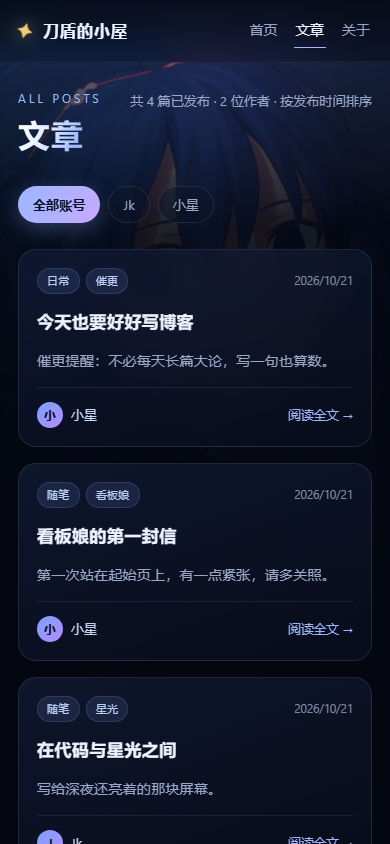
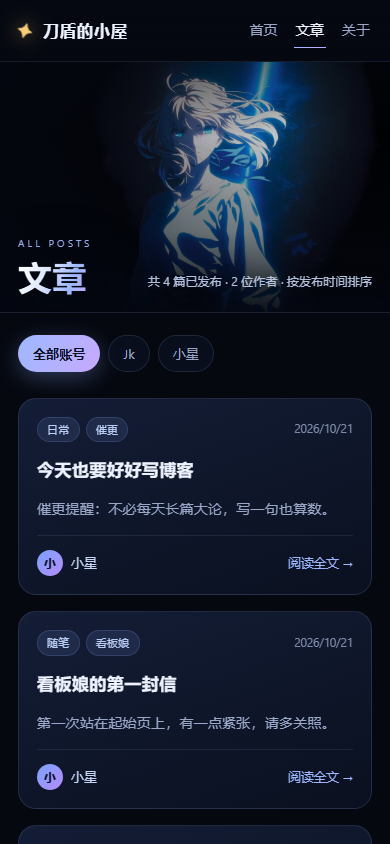
feat: 文章页顶部换成专属横图，图下文章区改为不透明
- 新增 web/assets/articles-hero.jpg（1280 × 720），只在第二页 /articles 使用，文章页不再铺首页背景
- /articles 顶部改为图片横幅，标题与「共 N 篇已发布」叠在底部渐变上；图下方文章列表整块不透明，卡片改为实色
- 同步 README 素材表、docs/background-spec.md 图片规格与验收截图

diff --git a/web/articles.html b/web/articles.html
@@ -12,16 +12,8 @@
     <link rel="icon" href="/assets/favicon.svg" type="image/svg+xml" />
     <link rel="stylesheet" href="/css/style.css" />
   </head>
-  <body>
+  <body class="page-articles">
     <a class="skip-link" href="#post-list">跳到文章列表</a>
-
-    <div class="scene" aria-hidden="true">
-      <div class="scene-bg"></div>
-      <div class="scene-stars"></div>
-      <div class="scene-glow scene-glow--a"></div>
-      <div class="scene-glow scene-glow--b"></div>
-      <div class="scene-veil"></div>
-    </div>
 
     <header class="topbar">
       <a class="brand" href="/" aria-label="回到首页">
@@ -36,29 +28,44 @@
       <span class="topbar-badge">SQLite · 账号分库</span>
     </header>
 
-    <div class="content-stage content-stage--page">
-      <main class="library-main">
-        <div class="page-head">
-          <div>
-            <p class="section-kicker">All posts</p>
-            <h1 class="page-title">文章</h1>
+    <main class="articles-page">
+      <section class="articles-hero" aria-labelledby="page-title">
+        <img
+          class="articles-hero-img"
+          src="/assets/articles-hero.jpg"
+          alt=""
+          width="1280"
+          height="720"
+          decoding="async"
+          fetchpriority="high"
+        />
+        <div class="articles-hero-inner">
+          <div class="page-head">
+            <div>
+              <p class="section-kicker">All posts</p>
+              <h1 class="page-title" id="page-title">文章</h1>
+            </div>
+            <p class="page-note" id="page-note">正在读取文章库…</p>
           </div>
-          <p class="page-note" id="page-note">正在读取文章库…</p>
         </div>
+      </section>
 
-        <div class="filter-bar" id="filter-bar" role="group" aria-label="按账号筛选文章">
-          <button class="filter-chip is-active" type="button" data-account="">全部账号</button>
-        </div>
+      <section class="articles-library" aria-label="文章列表">
+        <div class="library-main library-main--opaque">
+          <div class="filter-bar" id="filter-bar" role="group" aria-label="按账号筛选文章">
+            <button class="filter-chip is-active" type="button" data-account="">全部账号</button>
+          </div>
 
-        <div class="feed library-feed" id="post-list">
-          <p class="feed-state">正在读取文章库…</p>
-        </div>
+          <div class="feed library-feed" id="post-list">
+            <p class="feed-state">正在读取文章库…</p>
+          </div>
 
-        <div class="library-more" id="library-more" hidden>
-          <button class="btn btn-ghost" type="button" id="load-more">加载更多</button>
+          <div class="library-more" id="library-more" hidden>
+            <button class="btn btn-ghost" type="button" id="load-more">加载更多</button>
+          </div>
         </div>
-      </main>
-    </div>
+      </section>
+    </main>
 
     <footer class="footer">
       <p data-site="footer">© 2026 Jk · 用 SQLite 写下每一个字</p>

diff --git a/web/css/style.css b/web/css/style.css
@@ -995,6 +995,80 @@ img {
     );
 }
 
+/* 第二页顶部横图：文章页用自己的一张图，不再铺首页背景 */
+
+.articles-page {
+  background: #05080f;
+}
+
+.articles-hero {
+  position: relative;
+  isolation: isolate;
+  overflow: hidden;
+  height: clamp(300px, 46vh, 460px);
+  background: #04070e;
+}
+
+.articles-hero-img {
+  position: absolute;
+  inset: 0;
+  z-index: -2;
+  width: 100%;
+  height: 100%;
+  object-fit: cover;
+  object-position: center 10%;
+}
+
+.articles-hero::after {
+  content: "";
+  position: absolute;
+  inset: 0;
+  z-index: -1;
+  background:
+    linear-gradient(
+      180deg,
+      rgba(4, 7, 16, 0.55) 0%,
+      rgba(4, 7, 16, 0.18) 30%,
+      rgba(4, 7, 16, 0.48) 68%,
+      rgba(4, 7, 16, 0.96) 100%
+    ),
+    linear-gradient(90deg, rgba(4, 7, 16, 0.8) 0%, rgba(4, 7, 16, 0.24) 48%, rgba(4, 7, 16, 0) 74%);
+}
+
+.articles-hero-inner {
+  position: absolute;
+  right: 0;
+  bottom: 0;
+  left: 0;
+}
+
+.articles-hero .page-head {
+  width: min(1200px, 100%);
+  margin: 0 auto;
+  padding: 0 clamp(20px, 5vw, 48px) clamp(18px, 3vh, 30px);
+}
+
+.articles-hero .page-title {
+  filter: drop-shadow(0 8px 30px rgba(2, 5, 12, 0.85));
+}
+
+.articles-hero .page-note {
+  margin: 0 0 clamp(6px, 1.2vh, 12px);
+  color: rgba(203, 217, 246, 0.88);
+  text-shadow: 0 2px 16px rgba(3, 6, 15, 0.85);
+}
+
+/* 图下方的文章区：整块不透明，不再透出图片 */
+
+.articles-library {
+  background: #05080f;
+  border-top: 1px solid rgba(148, 170, 220, 0.16);
+}
+
+.library-main--opaque {
+  padding-top: clamp(26px, 4vh, 42px);
+}
+
 .library-main {
   width: min(1200px, 100%);
   margin: 0 auto;
@@ -1040,6 +1114,8 @@ img {
 }
 
 .library-feed .post-card {
+  background: linear-gradient(160deg, #141d36, #0a101f);
+  backdrop-filter: none;
   animation: rise-in 0.6s cubic-bezier(0.22, 0.8, 0.24, 1) both;
 }
 
@@ -1628,6 +1704,10 @@ img {
     display: none;
   }
 
+  .articles-hero {
+    height: clamp(280px, 40vh, 400px);
+  }
+
   .topbar-badge {
     display: none;
   }
@@ -1713,6 +1793,38 @@ img {
 
   .page-note {
     font-size: 0.82rem;
+  }
+
+  .articles-hero {
+    height: 250px;
+  }
+
+  .articles-hero-img {
+    object-position: center 18%;
+  }
+
+  .articles-hero .page-head {
+    align-items: flex-end;
+    padding: 0 18px 16px;
+  }
+
+  .articles-hero .page-title {
+    font-size: 2.1rem;
+  }
+
+  .articles-hero .page-note {
+    margin-bottom: 4px;
+    font-size: 0.76rem;
+    text-align: right;
+  }
+
+  .articles-hero .section-kicker {
+    margin-bottom: 6px;
+    font-size: 0.64rem;
+  }
+
+  .library-main--opaque {
+    padding: 22px 18px 48px;
   }
 
   .section-side {

diff --git a/README.md b/README.md
@@ -179,7 +179,7 @@ app.close();
 - **关于页**：独立页面 `/about`，标题 / 正文 / 技术标签都存在主库 `site_settings` 里，由 `/js/about.js` 从 `/api/site` 读取渲染；首页不再显示关于区块。
 - **顶部导航**：首页 / 文章 / 关于；「文章」进入第二页 `/articles`。
 - **首页最新文章**：跨账号 Feed；顶部胶囊可按账号筛选，对应「分库」结构；右上角「查看全部文章」进入第二页。
-- **第二页（文章列表）**：`/articles`，专门放文章——跨账号分页列表 + 账号筛选胶囊 + 「加载更多」；筛选条件会写进 `?account=<账号>`，方便分享；每张卡片整张可点，跳到独立文章页。
+- **第二页（文章列表）**：`/articles`，专门放文章——顶部是文章页自己的横图（`web/assets/articles-hero.jpg`，不再铺首页背景），图下方是整块不透明的文章列表；跨账号分页 + 账号筛选胶囊 + 「加载更多」；筛选条件会写进 `?account=<账号>`，方便分享；每张卡片整张可点，跳到独立文章页。
 - **文章独立页面**：`/articles/<账号>/<id>`（`id` 是账号库内 ID，所以要带账号名），直接渲染 Markdown 正文、作者、日期、阅读数和标签；文章不存在 / 未发布时显示错误态和返回入口。
 - **阅读弹窗**：首页卡片仍然打开弹窗快速预览（内置安全的极简 Markdown 渲染器：先整体转义，再渲染）；弹窗底部有「在独立页面打开」可跳到文章页。
 - **文章深链**：`/?post=xiaoxing:1` 在首页直接打开阅读弹窗；`/articles/xiaoxing/1` 则是可分享的独立文章页面。
@@ -190,6 +190,7 @@ app.close();
 | --- | --- | --- |
 | `web/assets/hero-bg.jpg` | 桌面背景 | 当前为 1672 × 941（16:9）的插画；有更高清原图时建议换成 2560 × 1440 |
 | `web/assets/hero-bg-mobile.jpg` | 手机竖屏背景 | 1080 × 1920（9:16），由同一张插画裁切生成 |
+| `web/assets/articles-hero.jpg` | 文章页顶部横图 | 1280 × 720（16:9），只在第二页 `/articles` 顶部使用；换图直接覆盖 |
 
 > 看板娘立绘当前**未使用**（已移除 AI 生成的占位立绘）。如果以后要加，参考 [docs/background-spec.md](docs/background-spec.md) 里保留的立绘规格，并恢复 hero 右侧的立绘位。
 

diff --git a/docs/background-spec.md b/docs/background-spec.md
@@ -80,6 +80,18 @@
 - 如果立绘是全身像：3:4 画布、人物占画布高度的 90% 左右比较合适；如果是半身像，可以在 3:4 画布里居中偏上，让底部自然留白。
 - 目前首页已移除立绘；以后要放回时，准备好图片后需要恢复 hero 右侧的立绘位（HTML/CSS 改动，随时可以让我加回来），再 Ctrl+F5 刷新。
 
+## 文章页顶部横图（articles-hero.jpg）
+
+第二页 `/articles` 顶部用一张独立的横图，**不复用首页背景**：图片铺满顶部横幅，标题和数据叠在底部深色渐变上，图片下方是整块不透明的文章列表。
+
+| 文件 | 实际尺寸 | 说明 |
+| --- | --- | --- |
+| `web/assets/articles-hero.jpg` | 1280 × 720（16:9） | 白发少女插画（用户提供），JPG，约 106KB |
+
+- 显示尺寸由 CSS 控制：高度 `clamp(300px, 46vh, 460px)`，`object-fit: cover` + `object-position: center 10%`；所以**人物头部靠上**的构图最合适，超宽屏会左右裁切，重要内容放中间即可。
+- 左侧约 40% 会叠横向深色渐变来衬托「文章」标题，主体放中间偏右、左侧尽量干净。
+- 换图直接覆盖同名文件即可，不需要改代码。
+
 ## 占位素材
 
 如果临时需要一张纯星空占位背景，可以运行：
